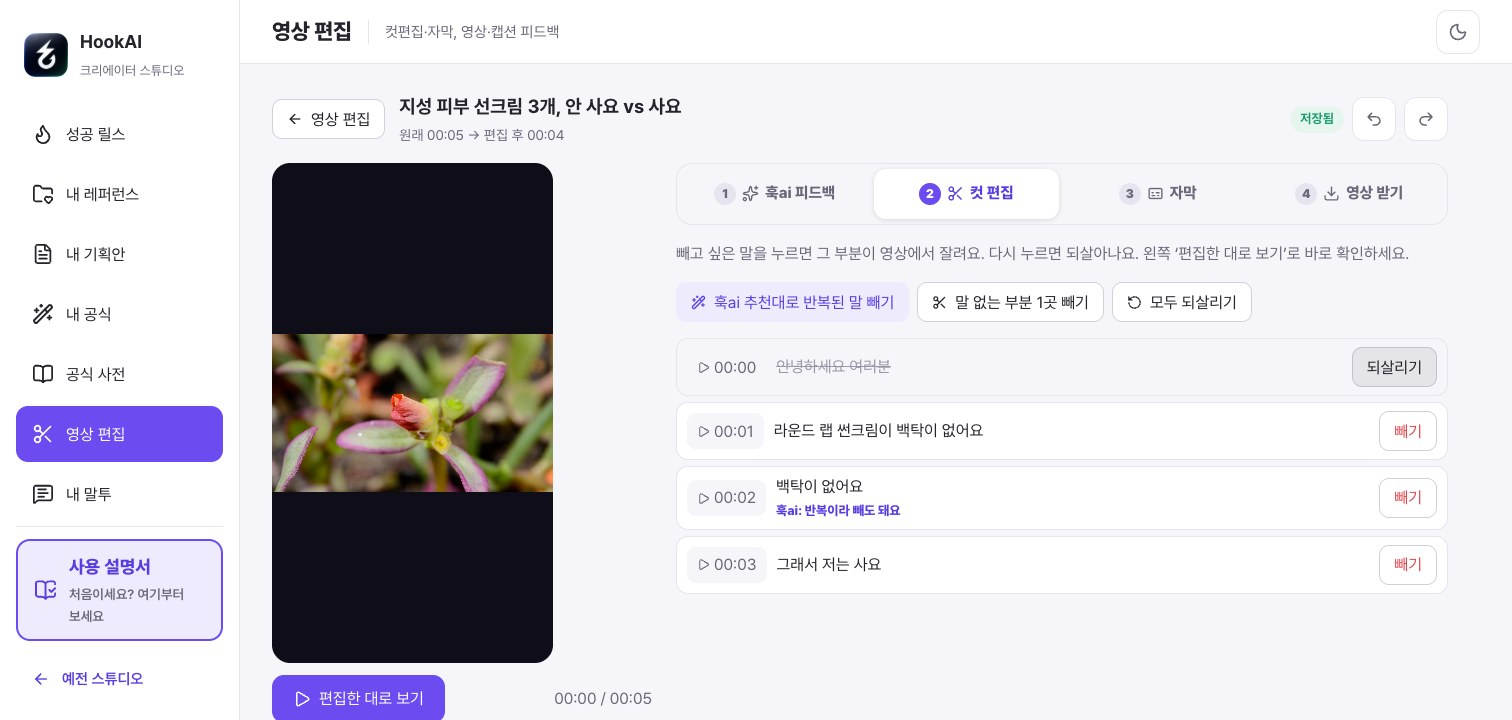
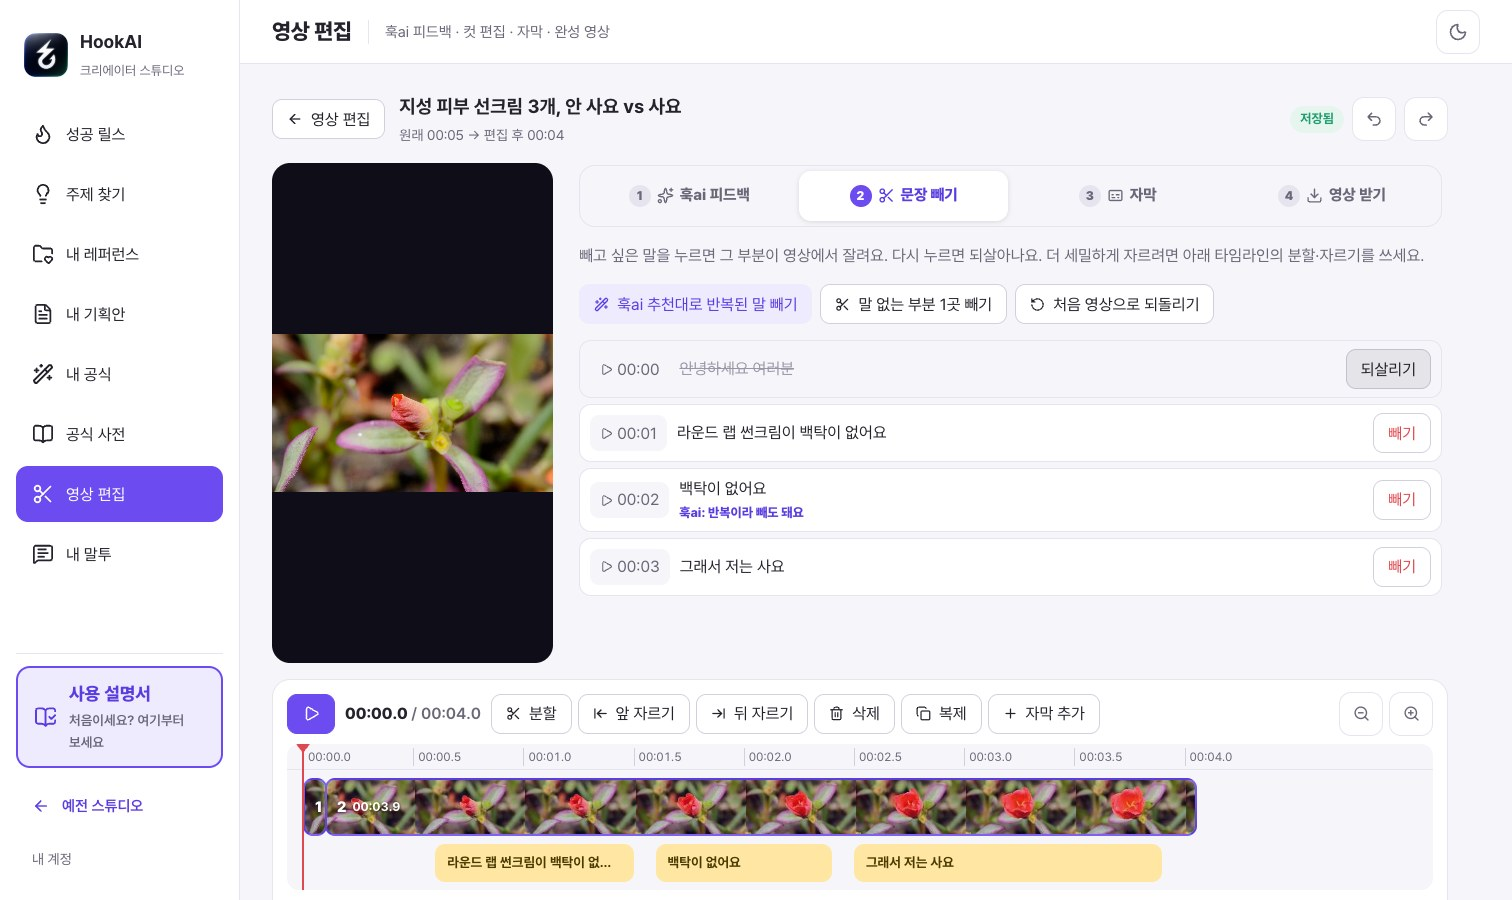
사용 설명서: 영상 편집 장을 새 타임라인·자막 편집 화면으로 갱신

diff --git a/frontend/src/studio/manualContent.js b/frontend/src/studio/manualContent.js
@@ -86,17 +86,27 @@ export const MANUAL = [
       ['내가 쓰던 대본·캡션 붙여넣기', '잘 됐던 글 2~3개면 충분해요. 훅ai는 말투만 배우고 내용은 가져다 쓰지 않아요.'],
       ['내 말투 저장', '누르면 다음 기획안부터 바로 내 말투로 써요.'],
     ])] },
-  { id: 'edit', title: '영상 편집', lead: '찍은 영상을 한 번 올리면 훅ai가 고칠 점을 알려주고, 말한 문장 단위로 자르고, 자막까지 만들어 완성 영상으로 내려받을 수 있어요.',
+  { id: 'edit', title: '영상 편집', lead: '찍은 영상을 한 번 올리면 훅ai가 고칠 점을 알려주고, 타임라인에서 직접 자르고 다듬고, 자막까지 넣어 완성 영상으로 내려받을 수 있어요.',
     shots: [shot('m-edit', '영상 올리기', [
       ['영상 고르기', '눌러서 찍은 영상을 고르거나, 영상 파일을 끌어다 놓으세요. 5분·300MB 이하 MP4·MOV·WebM이면 돼요.'],
       ['기획안 고르기', '이 영상을 어떤 기획안으로 찍었는지 고르세요. 기획한 대본과 비교해서 점검하고, 자막 오타도 대본으로 고칠 수 있어요. 없으면 그냥 두세요.'],
       ['캡션 (선택)', '함께 올릴 캡션을 붙여 넣으면 캡션도 봐드려요. 기획안을 고르면 기획안의 캡션이 자동으로 들어가요.'],
       ['점검받기', '권한 확인에 체크하고 [훅ai에게 점검받기]를 누르세요. 1~3분 걸리고, 다른 화면에 가 있어도 계속 진행돼요.'],
-    ]), shot('m-edit-2', '피드백 보고 자르기', [
-      ['네 단계 탭', '① 훅ai 피드백 → ② 컷 편집 → ③ 자막 → ④ 영상 받기 순서로 누르며 진행하세요. 각 피드백의 [부분 보기]를 누르면 그 장면이 바로 재생돼요.'],
-      ['문장 빼기', '컷 편집에서 빼고 싶은 말의 [빼기]를 누르면 그 부분이 영상에서 잘려요. [되살리기]로 되돌릴 수 있고, 훅ai가 반복된 말을 한 번에 빼 주기도 해요.'],
-      ['편집한 대로 보기', '누르면 뺀 부분은 건너뛰고 재생돼요. 자막도 함께 보여요.'],
+    ]), shot('m-edit-2', '피드백 보고 문장 빼기', [
+      ['네 단계 탭', '① 훅ai 피드백 → ② 문장 빼기 → ③ 자막 → ④ 영상 받기 순서로 누르며 진행하세요. 각 피드백의 [부분 보기]를 누르면 그 장면이 바로 재생돼요.'],
+      ['문장 빼기', '빼고 싶은 말의 [빼기]를 누르면 그 부분이 영상에서 잘려요. [되살리기]로 되돌릴 수 있고, 훅ai가 반복된 말을 한 번에 빼 주기도 해요.'],
+      ['편집한 대로 보기', '아래 타임라인의 재생 버튼을 누르면 뺀 부분은 건너뛰고 재생돼요. 자막도 함께 보여요.'],
       ['되돌리기 · 저장', '고친 내용은 자동으로 저장돼요. 실수했으면 오른쪽 위 화살표로 되돌리세요. 다 되면 ④ 영상 받기에서 [완성 영상 만들기] → [완성 영상 받기]를 누르세요.'],
-    ], '피드백 보고 자르기')],
-    tips: ['자막 탭에서 잘못 들린 단어를 눌러 바로 고칠 수 있어요. 기획안을 골랐다면 [기획안 대본으로 자막 오타 고치기]를 먼저 눌러 보세요.'] },
+    ], '피드백 보고 문장 빼기'), shot('m-edit-3', '타임라인에서 자르기', [
+      ['재생선 옮기기', '타임라인을 누르거나 끌면 빨간 재생선이 그 자리로 가요. 왼쪽 영상도 그 장면을 보여 줘요.'],
+      ['분할 · 자르기', '[분할]은 재생선 자리에서 영상을 둘로 나눠요. [앞 자르기]는 재생선 앞부분을, [뒤 자르기]는 뒷부분을 잘라내요.'],
+      ['조각 다듬기', '조각을 누르면 노란 테두리가 생겨요. 양 끝의 노란 손잡이를 좌우로 끌면 시작과 끝을 조금씩 다듬을 수 있어요.'],
+      ['순서 · 복제 · 삭제', '고른 조각은 위 상자에서 [앞으로]·[뒤로]로 순서를 바꾸고, [복제]로 한 번 더 넣고, [삭제]로 지울 수 있어요.'],
+    ], '타임라인에서 자르기'), shot('m-edit-4', '자막 고치기 · 나누기 · 합치기', [
+      ['자막 고르기', '타임라인 아래 노란 자막 줄에서 고칠 자막을 누르세요. 오른쪽 자막 탭에 그 자막이 열려요.'],
+      ['글자 고치기', '잘못 들린 단어를 눌러 바로 고치세요.'],
+      ['시간 맞추기', '시작·끝 숫자를 바꾸거나, 재생선을 원하는 곳에 두고 [재생선을 시작으로]·[재생선을 끝으로]를 누르세요. 타임라인에서 자막 양 끝 손잡이를 끌어도 돼요.'],
+      ['나누기 · 합치기', '가위 표시를 누르면 그 단어 뒤에서 자막이 둘로 나뉘어요. [재생선에서 나누기]는 재생선 자리에서 나누고, [다음 자막과 합치기]는 두 자막을 하나로 붙여요.'],
+    ], '자막 고치기 · 나누기 · 합치기')],
+    tips: ['기획안을 골랐다면 자막 탭에서 [기획안 대본으로 오타 고치기]를 먼저 눌러 보세요.', '단축키: 스페이스 재생·멈춤, ⌘B 분할, Delete 삭제, ⌘Z 되돌리기 (윈도우는 ⌘ 대신 Ctrl)'] },
 ]
